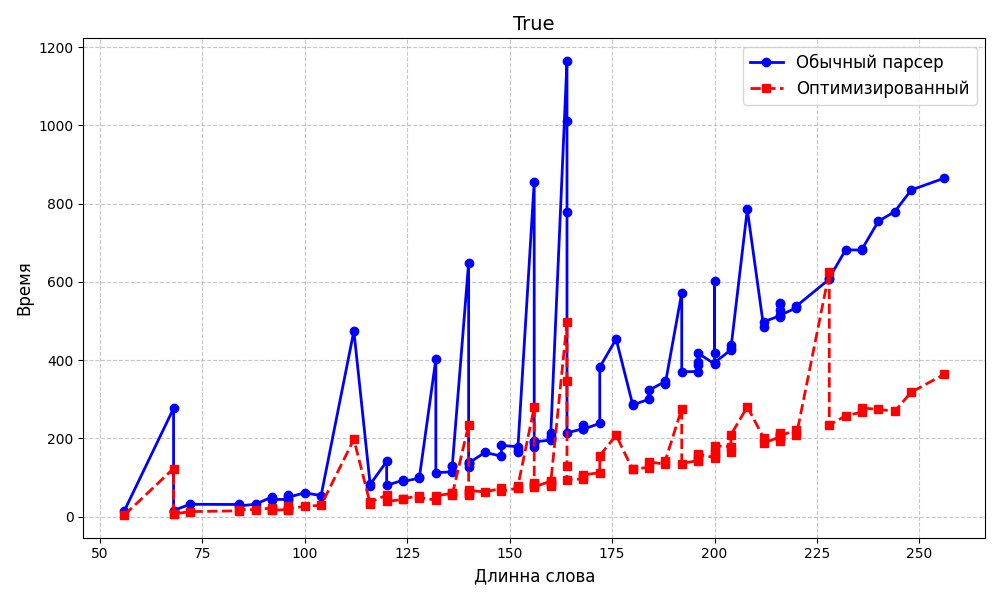
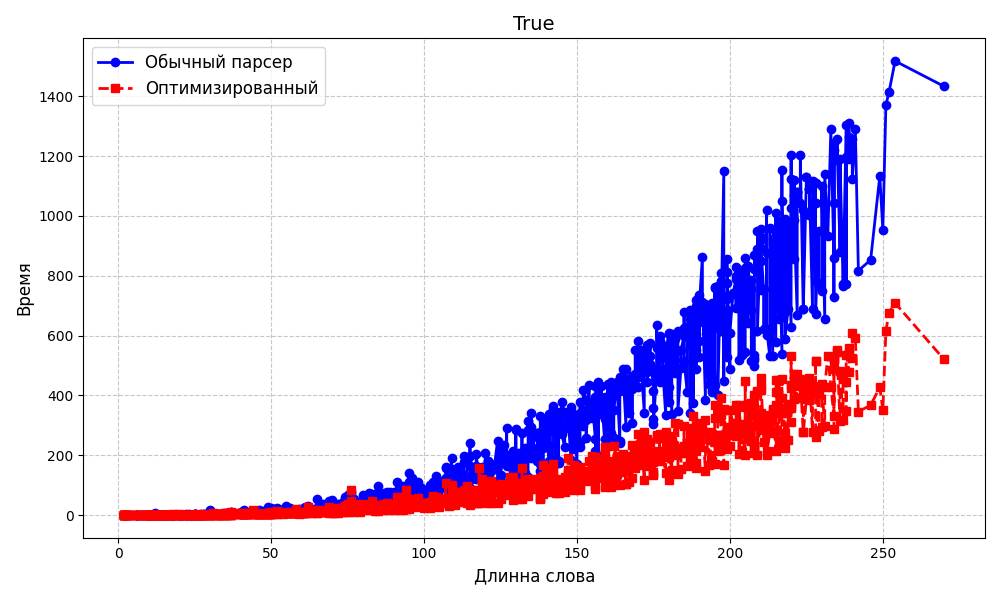
fix bug in opt parser, improved word generator

diff --git a/l4.py b/l4.py
@@ -118,7 +118,7 @@ class Parser_OPT:
             if j - i < 1:
                 return frozenset()
 
-            if s[i:i+1] == "ba" or s[j] == 'a':
+            if s[i:i+2] == "ba" or s[j] == 'a':
                 return frozenset()
 
             result = set()
@@ -144,7 +144,7 @@ class Parser_OPT:
             if j - i < 1:
                 return frozenset()
 
-            if s[i:i+1] == "ba" or s[j] == 'a':
+            if s[i:i+2] == "ba" or s[j] == 'a':
                 return frozenset()
 
             result = set()
@@ -234,9 +234,43 @@ def test_parser():
 
 
 def generate_only_true():
-    p = random.randint(1, 20)
-    w = random.randint(p+1, 40)
-    return "bbaaba"+ "a"*w+"ab"+"aab"*w+"aba"+"a"*p+"ab"+"aab"*p+"aab"
+    def T(n):
+        if n > 2:
+            l = random.randint(0, n)
+            t1 = S(l)
+            t2 = T(n-l)
+            return [t1[0] + "a" + t2[0], 1 + t1[1] + t2[1]]
+        else:
+            return ["ab", 1]
+
+    def S(n):
+        if n < 3:
+            return ["bb", 0]
+
+        p = random.randint(0, 2)
+
+        if p == 0:
+            l = random.randint(0, n)
+            t1 = S(l)
+            t2 = S(n - l)
+            if t1[1] > t2[1]:
+                return [t1[0] + "ab" + t2[0], 0]
+            else:
+                return [t1[0] + "ab" + t2[0], t2[1]]
+        elif p == 1:
+            t = T(n-1)
+            return ["a"+ t[0], 1 + t[1]]
+        else:
+            l = random.randint(0, n)
+            t1 = T(l)
+            t2 = T(n - l)
+            if t1[1] == t2[1]:
+                return [t1[0] + t2[0], 2*t1[1]]
+            else:
+                t = T(n - 1)
+                return ["a" + t[0], 1 + t[1]]
+
+    return S(random.randint(2, 100))[0]
 
 def generate_only_false():
     if random.getrandbits(1) == 1:
